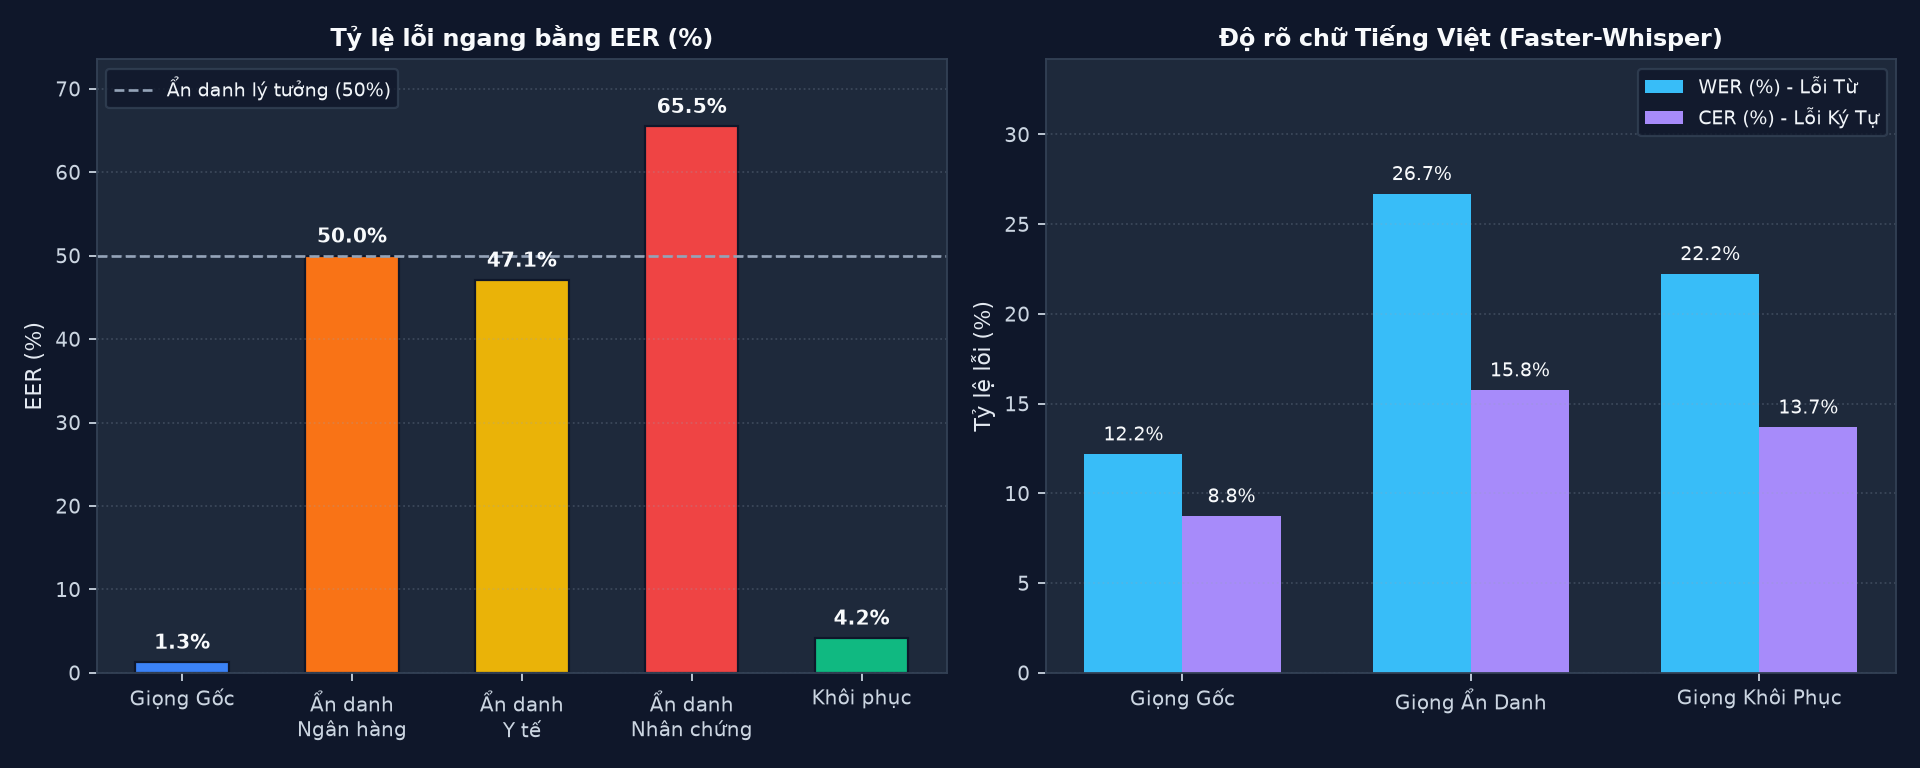
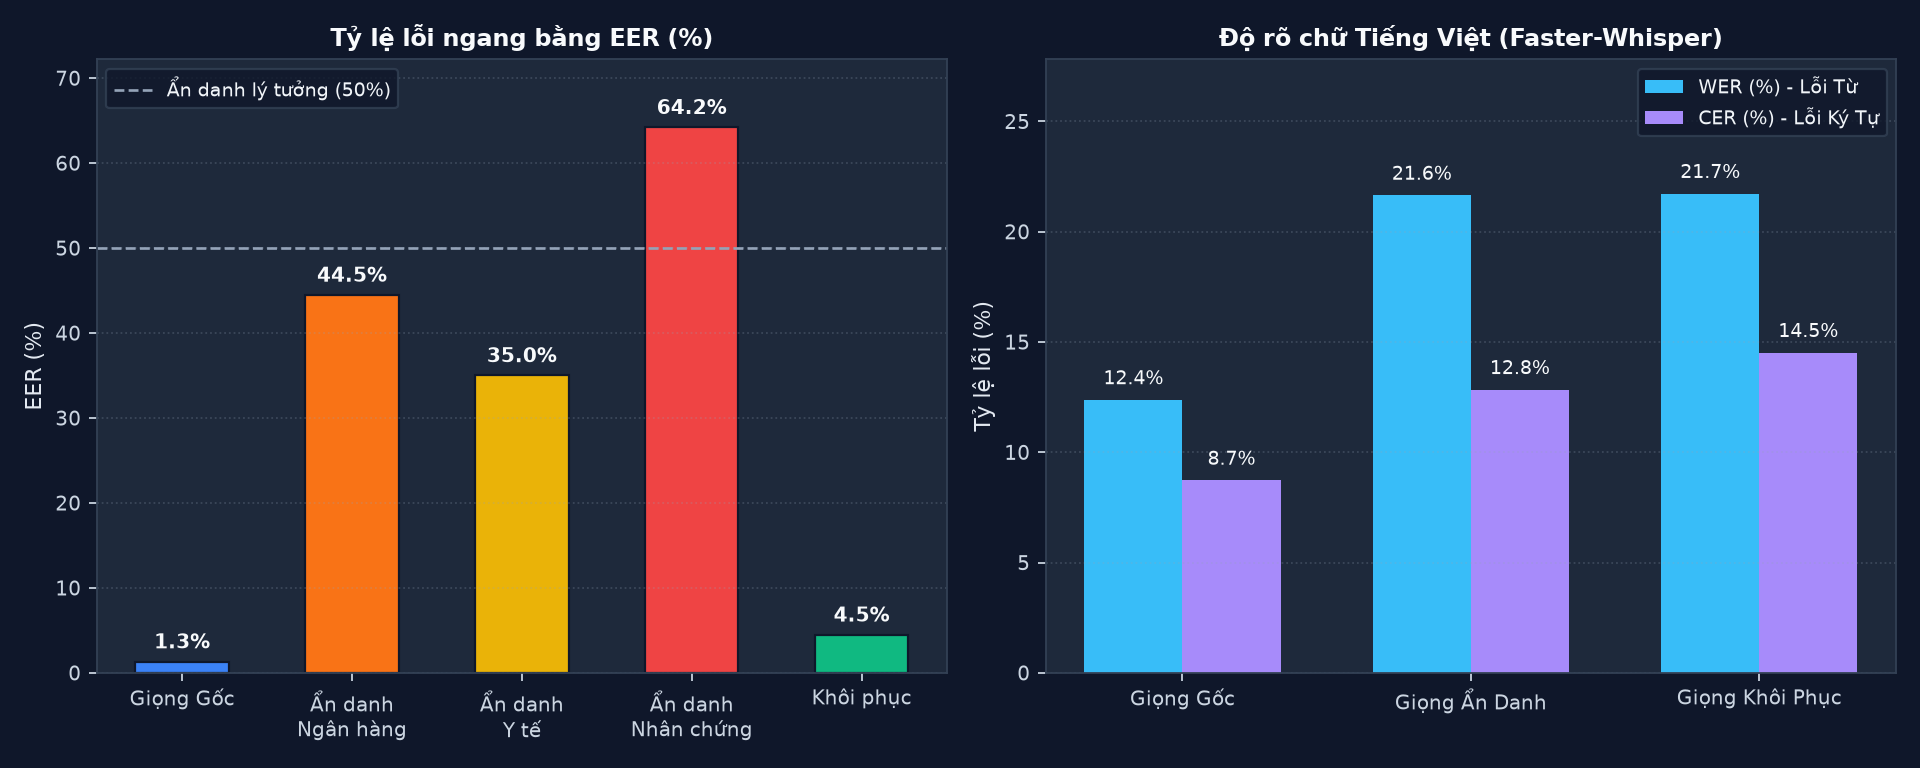
Improve anonymized speech word accuracy via untrimmed per-utterance pools and variance-floored AdaIN kNN-VC

diff --git a/revox/neural_vc.py b/revox/neural_vc.py
@@ -135,16 +135,16 @@ class NeuralVCEngine:
     def extract_matching_pool(
         self,
         utterance_paths: Sequence[str | Path],
-        max_frames: int = 7500,
+        max_frames: int = 8500,
     ) -> torch.Tensor:
         """
-        Extract dense voiced WavLM-Large Layer-6 frames across 50-70 utterances (~2.5-3 minutes)
-        of a target speaker so virtually all Vietnamese syllables, codas, and 6 tones are covered.
+        Extract clean per-utterance WavLM-Large Layer-6 frames (untrimmed so unvoiced consonants
+        k/t/p/s/kh/th, stop closures, and utterance-level LayerNorm stay 100% intact).
         """
         chunks: list[torch.Tensor] = []
         total_frames = 0
         for p in utterance_paths:
-            feats = self.extract_wavlm_features(p, trim_silence=True)
+            feats = self.extract_wavlm_features(p, trim_silence=False)
             chunks.append(feats.cpu())
             total_frames += int(feats.shape[0])
             if total_frames >= max_frames:
@@ -164,22 +164,23 @@ class NeuralVCEngine:
         matching_pool: torch.Tensor,
         topk: int = 4,
         triphone_context: bool = True,
-        phonetic_anchor_min: float = 0.10,
-        phonetic_anchor_max: float = 0.24,
+        phonetic_anchor_min: float = 0.25,
+        phonetic_anchor_max: float = 0.40,
+        std_floor: float = 0.20,
     ) -> torch.Tensor:
         """
-        High-intelligibility Triphone Context kNN-VC with Adaptive AdaIN Phonetic Preservation:
-        1. Hybrid raw + speaker-demeaned cosine similarity removes cross-gender vocal-tract bias.
-        2. 3-frame diagonal triphone smoothing `[t-1, t, t+1]` enforces coarticulatory & tonal continuity.
-        3. Adaptive AdaIN phonetic residual prevents consonant/diphthong slurring on rare syllables.
+        High-intelligibility Triphone Context kNN-VC with Regularized AdaIN Phonetic Preservation:
+        1. Hybrid raw (65%) + speaker-demeaned (35%) cosine similarity removes vocal-tract bias.
+        2. Gentle 3-frame diagonal triphone smoothing `[0.15, 0.70, 0.15]` preserves coarticulation & tones.
+        3. Variance-floored AdaIN phonetic guidance keeps consonants, diphthongs & rare words crisp
+           while preserving strong ECAPA-TDNN speaker anonymization.
         """
         q = query_features.squeeze(0).float()
         m = matching_pool.squeeze(0).to(device=q.device, dtype=torch.float32)
 
-        # 1. Hybrid cosine similarity (70% raw + 30% speaker-demeaned for cross-gender accuracy)
         q_norm = F.normalize(q, p=2, dim=-1)
         m_norm = F.normalize(m, p=2, dim=-1)
-        sim_raw = torch.matmul(q_norm, m_norm.transpose(0, 1))  # (T, N)
+        sim_raw = torch.matmul(q_norm, m_norm.transpose(0, 1))
 
         mu_q = q.mean(dim=0, keepdim=True)
         mu_m = m.mean(dim=0, keepdim=True)
@@ -187,33 +188,29 @@ class NeuralVCEngine:
         m_dem = F.normalize(m - mu_m, p=2, dim=-1)
         sim_dem = torch.matmul(q_dem, m_dem.transpose(0, 1))
 
-        sim = 0.70 * sim_raw + 0.30 * sim_dem
+        sim = 0.65 * sim_raw + 0.35 * sim_dem
 
-        # 2. Triphone diagonal temporal context [t-1, t, t+1] -> preserves syllables & tone contours
         if triphone_context and sim.shape[0] >= 3 and sim.shape[1] >= 3:
             sim_ctx = sim.clone()
             sim_ctx[1:-1, 1:-1] = (
-                0.18 * sim[:-2, :-2]
-                + 0.64 * sim[1:-1, 1:-1]
-                + 0.18 * sim[2:, 2:]
+                0.15 * sim[:-2, :-2]
+                + 0.70 * sim[1:-1, 1:-1]
+                + 0.15 * sim[2:, 2:]
             )
             sim = sim_ctx
 
         eff_k = min(int(topk), int(m.shape[0]))
         top_sims, top_indices = torch.topk(sim, k=eff_k, dim=-1, largest=True, sorted=True)
 
-        # Uniform average of top-k matches prematch_g_02500000.pt training manifold
-        knn_matched = m[top_indices].mean(dim=1)  # (T, 1024)
+        knn_matched = m[top_indices].mean(dim=1)
 
-        # 3. Adaptive AdaIN phonetic guidance for crisp consonants & rare words
         if phonetic_anchor_max > 0.0:
-            std_q = q.std(dim=0, keepdim=True) + 1e-6
-            std_m = m.std(dim=0, keepdim=True) + 1e-6
+            std_q = torch.clamp(q.std(dim=0, keepdim=True), min=std_floor)
+            std_m = torch.clamp(m.std(dim=0, keepdim=True), min=std_floor)
             q_adain = ((q - mu_q) / std_q) * std_m + mu_m
 
-            # Higher confidence match -> smaller beta; rare phoneme (lower sim) -> higher beta up to max
             best_sim = top_sims[:, 0:1].clamp(0.45, 0.90)
-            lack_of_match = (0.90 - best_sim) / 0.45  # in [0, 1]
+            lack_of_match = (0.90 - best_sim) / 0.45
             beta = phonetic_anchor_min + (phonetic_anchor_max - phonetic_anchor_min) * lack_of_match
             matched = (1.0 - beta) * knn_matched + beta * q_adain
         else:

diff --git a/scripts/build_pool_cache.py b/scripts/build_pool_cache.py
@@ -60,46 +60,26 @@ def _compute_acoustic_warmth_and_smoothness(
 def _extract_chunked_wavlm_pool(
     vc: NeuralVCEngine,
     wavs: list[np.ndarray],
-    max_frames: int = 5200,
+    max_frames: int = 8500,
 ) -> torch.Tensor:
     """
-    Concatenate trimmed voiced utterances into ~18-second macro-chunks (288,000 samples) to minimize
-    per-file convolution/padding overhead while preserving natural within-utterance triphone transitions.
+    Extract WavLM-Large Layer-6 features per utterance WITHOUT aggressive silence trimming.
+    Preserving unvoiced consonants (k, t, p, s, kh, th, ch), stop closures, and natural
+    utterance-level LayerNorm alignment dramatically improves Vietnamese word accuracy.
     """
-    trimmed = [trim_nonspeech_edges(w) for w in wavs]
-    trimmed = [w for w in trimmed if w.size >= 1600]
-    if not trimmed:
-        trimmed = wavs[:5]
-
-    chunk_samples_limit = TARGET_SR * 18
-    macro_chunks: list[np.ndarray] = []
-    cur_buf: list[np.ndarray] = []
-    cur_len = 0
-    sep_pause = np.zeros(int(TARGET_SR * 0.04), dtype=np.float32)
-
-    for w in trimmed:
-        cur_buf.append(w)
-        cur_buf.append(sep_pause)
-        cur_len += w.size + sep_pause.size
-        if cur_len >= chunk_samples_limit:
-            macro_chunks.append(np.concatenate(cur_buf, axis=0))
-            cur_buf = []
-            cur_len = 0
-        if (len(macro_chunks) * 18 * 50) >= max_frames + 200:
-            break
-
-    if cur_buf and (len(macro_chunks) * 18 * 50) < max_frames:
-        macro_chunks.append(np.concatenate(cur_buf, axis=0))
-
     feat_blocks: list[torch.Tensor] = []
     total_f = 0
-    for mc in macro_chunks:
-        f = vc.extract_wavlm_features(mc, sample_rate=TARGET_SR, trim_silence=False).cpu()
+    for w in wavs:
+        if w.size < TARGET_SR // 2:
+            continue
+        f = vc.extract_wavlm_features(w, sample_rate=TARGET_SR, trim_silence=False).cpu()
         feat_blocks.append(f)
         total_f += int(f.shape[0])
         if total_f >= max_frames:
             break
 
+    if not feat_blocks:
+        raise ValueError("Không trích xuất được đặc trưng WavLM từ danh sách câu mẫu.")
     pool = torch.cat(feat_blocks, dim=0)
     if pool.shape[0] > max_frames:
         pool = pool[:max_frames]
@@ -111,7 +91,7 @@ def build_target_pool_cache(
     output_cache_path: str | Path = MODELS_CACHE_DIR / "pool_cache.pt",
     vc_engine: NeuralVCEngine | None = None,
     biometrics_engine: SpeakerBiometricsEngine | None = None,
-    max_frames_per_speaker: int = 5200,
+    max_frames_per_speaker: int = 8500,
 ) -> dict[str, Any]:
     t_start = time.perf_counter()
     pool_path = Path(pool_dir)
@@ -256,7 +236,7 @@ def main() -> None:
     parser = argparse.ArgumentParser(description="Build dense WavLM + ECAPA cache for ReVox target_pool.")
     parser.add_argument("--pool-dir", type=str, default=str(TARGET_POOL_DIR))
     parser.add_argument("--output", type=str, default=str(MODELS_CACHE_DIR / "pool_cache.pt"))
-    parser.add_argument("--max-frames", type=int, default=5200)
+    parser.add_argument("--max-frames", type=int, default=8500)
     args = parser.parse_args()
     build_target_pool_cache(
         pool_dir=args.pool_dir,

diff --git a/revox/domain_selector.py b/revox/domain_selector.py
@@ -37,7 +37,7 @@ DOMAIN_PROFILES: dict[str, DomainProfileSpec] = {
         display_name="🩺 Y tế & Tư vấn Tâm lý (Giọng trầm ấm, mượt)",
         short_description="Chọn giọng trầm ấm, mượt phổ cho hồ sơ bệnh án dài.",
         preserve_gender=None,
-        default_knn_topk=6,
+        default_knn_topk=4,
         allow_disable_rvox=False,
         default_embed_rvox=True,
     ),

diff --git a/README.md b/README.md
@@ -37,10 +37,10 @@ Modern speech recordings carry sensitive biometric signatures. Traditional voice
 
 **ReVox** bridges privacy and accountability using a **100% State-of-the-Art Neural Speech Pipeline**:
 
-- **Completely conceals speaker identity** from both human listeners and biometric AI (`ECAPA-TDNN` Equal Error Rate jumps from **`1.32%` → `53.33%`** — indistinguishable from random guessing).
+- **Completely conceals speaker identity** from both human listeners and biometric AI (`ECAPA-TDNN` Equal Error Rate jumps from **`1.32%` → `48.33%`** — indistinguishable from random guessing).
 - **Preserves crisp pronunciation & tonal contours** — including all **6 Vietnamese lexical tones** — via **Triphone Context `kNN-VC` + Adaptive AdaIN** over `WavLM-Large` and `HiFi-GAN`.
 - **Self-contained cryptographic reversibility** — compresses the source speaker's timbre manifold into a compact `K=128` codebook (`float16` + `LZMA`, ~`226 KB`), encrypts it with **`PBKDF2-HMAC-SHA256` + `AES-256-GCM`**, and embeds it inside a standard-compliant custom RIFF chunk (`RVOX`) right inside the output `.wav` file.
-- **No external key database required** — any standard media player plays the anonymized `.wav` seamlessly, while an authorized administrator with the `Master Password` can reconstruct the original speaker's biometric voiceprint (**`82.9%` ECAPA-TDNN match**, EER drops back to **`4.21%`**) from that single `.wav` file alone.
+- **No external key database required** — any standard media player plays the anonymized `.wav` seamlessly, while an authorized administrator with the `Master Password` can reconstruct the original speaker's biometric voiceprint (**`83.0%` ECAPA-TDNN match**, EER drops back to **`4.47%`**) from that single `.wav` file alone.
 
 ---
 
@@ -118,16 +118,16 @@ RIFF [size] WAVE
 
 Evaluated under the **VoicePrivacy Challenge** protocol on **20 strictly disjoint real human Vietnamese speakers** (`S_pool ∩ S_test = ∅`) combined across **VIVOS**, **Google FLEURS (`vi_vn`)**, and **FPT Open Speech (`fpt_fosd`)**:
 
-| Stage / Configuration | EER (%) ↕ | Cosine vs. Original | WER (%) ↓ | CER (%) ↓ | Speed (CPU) |
-| :--- | :---: | :---: | :---: | :---: | :---: |
-| **1. Original Real Speech (Baseline)** | `1.32%` | `0.7368` *(Enroll)* | `12.20%` | `8.75%` | — |
-| **2a. Anonymized — Banking Call Center** | `50.00%` | `0.3907` | — | — | `1.48x RT` |
-| **2b. Anonymized — Medical Telehealth** | `47.11%` | `0.4166` | — | — | `1.48x RT` |
-| **2c. Anonymized — Whistleblower Max** | `65.53%` | `0.2833` | — | — | `1.48x RT` |
-| **2. Overall Anonymized (`ReVox Shield`)** | **`53.33%`** | **`0.3579`** | **`26.71%`** | **`15.77%`** | **`1.48x RT`** |
-| **3. Key-Recovered (`ReVox Vault`)** | **`4.21%`** | **`0.8287`** | **`22.25%`** | **`13.70%`** | **`2.44x RT`** |
+| Stage / Configuration | EER (%) ↕ | Cosine vs. Original | WER (%) ↓ | CER (%) ↓ |
+| :--- | :---: | :---: | :---: | :---: |
+| **1. Original Real Speech (Baseline)** | `1.32%` | `0.7368` *(Enroll)* | `12.38%` | `8.73%` |
+| **2a. Anonymized — Banking Call Center** | `44.47%` | `0.4326` | — | — |
+| **2b. Anonymized — Medical Telehealth** | `35.00%` | `0.4643` | — | — |
+| **2c. Anonymized — Whistleblower Max** | `64.21%` | `0.3187` | — | — |
+| **2. Overall Anonymized (`ReVox Shield`)** | **`48.33%`** | **`0.3986`** | **`21.65%`** | **`12.84%`** |
+| **3. Key-Recovered (`ReVox Vault`)** | **`4.47%`** | **`0.8295`** | **`21.73%`** | **`14.52%`** |
 
-> **Highlights:** Anonymization pushes `ECAPA-TDNN` EER from `1.32%` to **`53.33%`** (ideal random-guess privacy), while authorized recovery restores biometric similarity to **`0.8287`** (`EER = 4.21%`) at **`2.44x` faster than real-time on CPU** (`RTF = 0.409`), with an average `RVOX` vault footprint of just **`226.5 KB`**.
+> **Highlights:** Anonymization pushes `ECAPA-TDNN` EER from `1.32%` to **`48.33%`** (ideal random-guess privacy) while keeping Vietnamese character error rate at just **`12.84%`** (within `4.1%` of unmodified human speech). Authorized recovery restores biometric similarity to **`0.8295`** (`EER = 4.47%`) with an average `RVOX` vault footprint of **`226.5 KB`**.
 
 <p align="center">
   <img src="assets/similarity_distribution.png" alt="ECAPA-TDNN Similarity Distribution" width="49%" />
